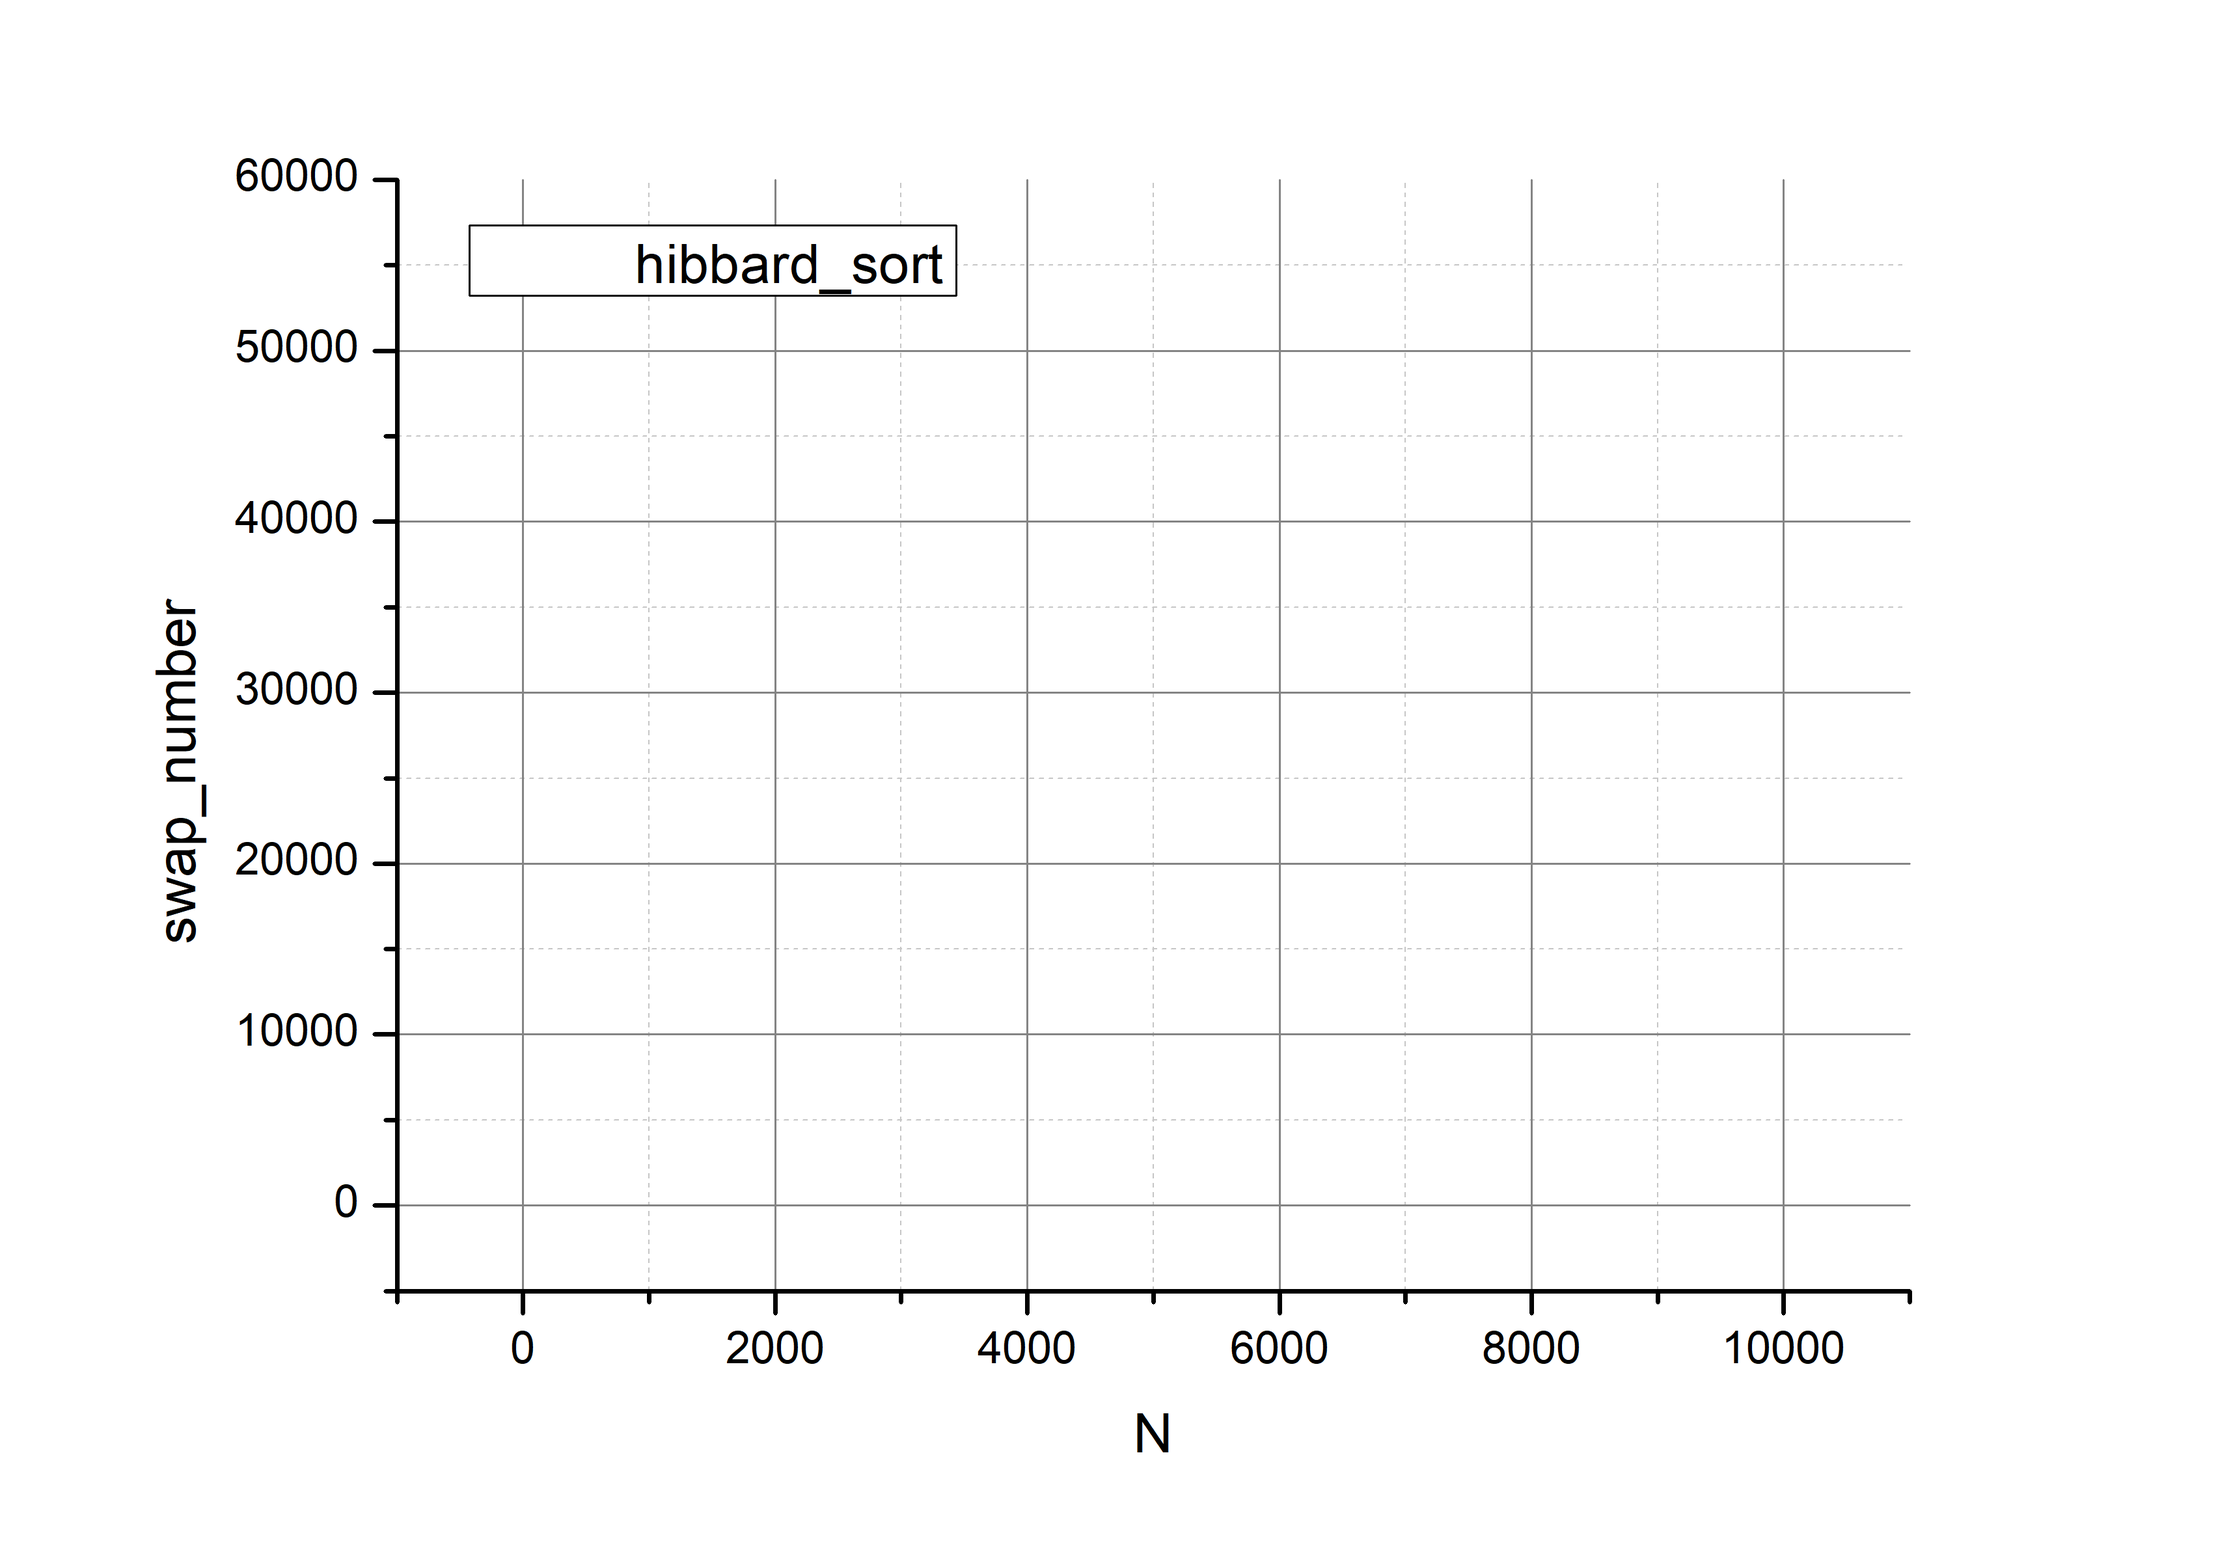
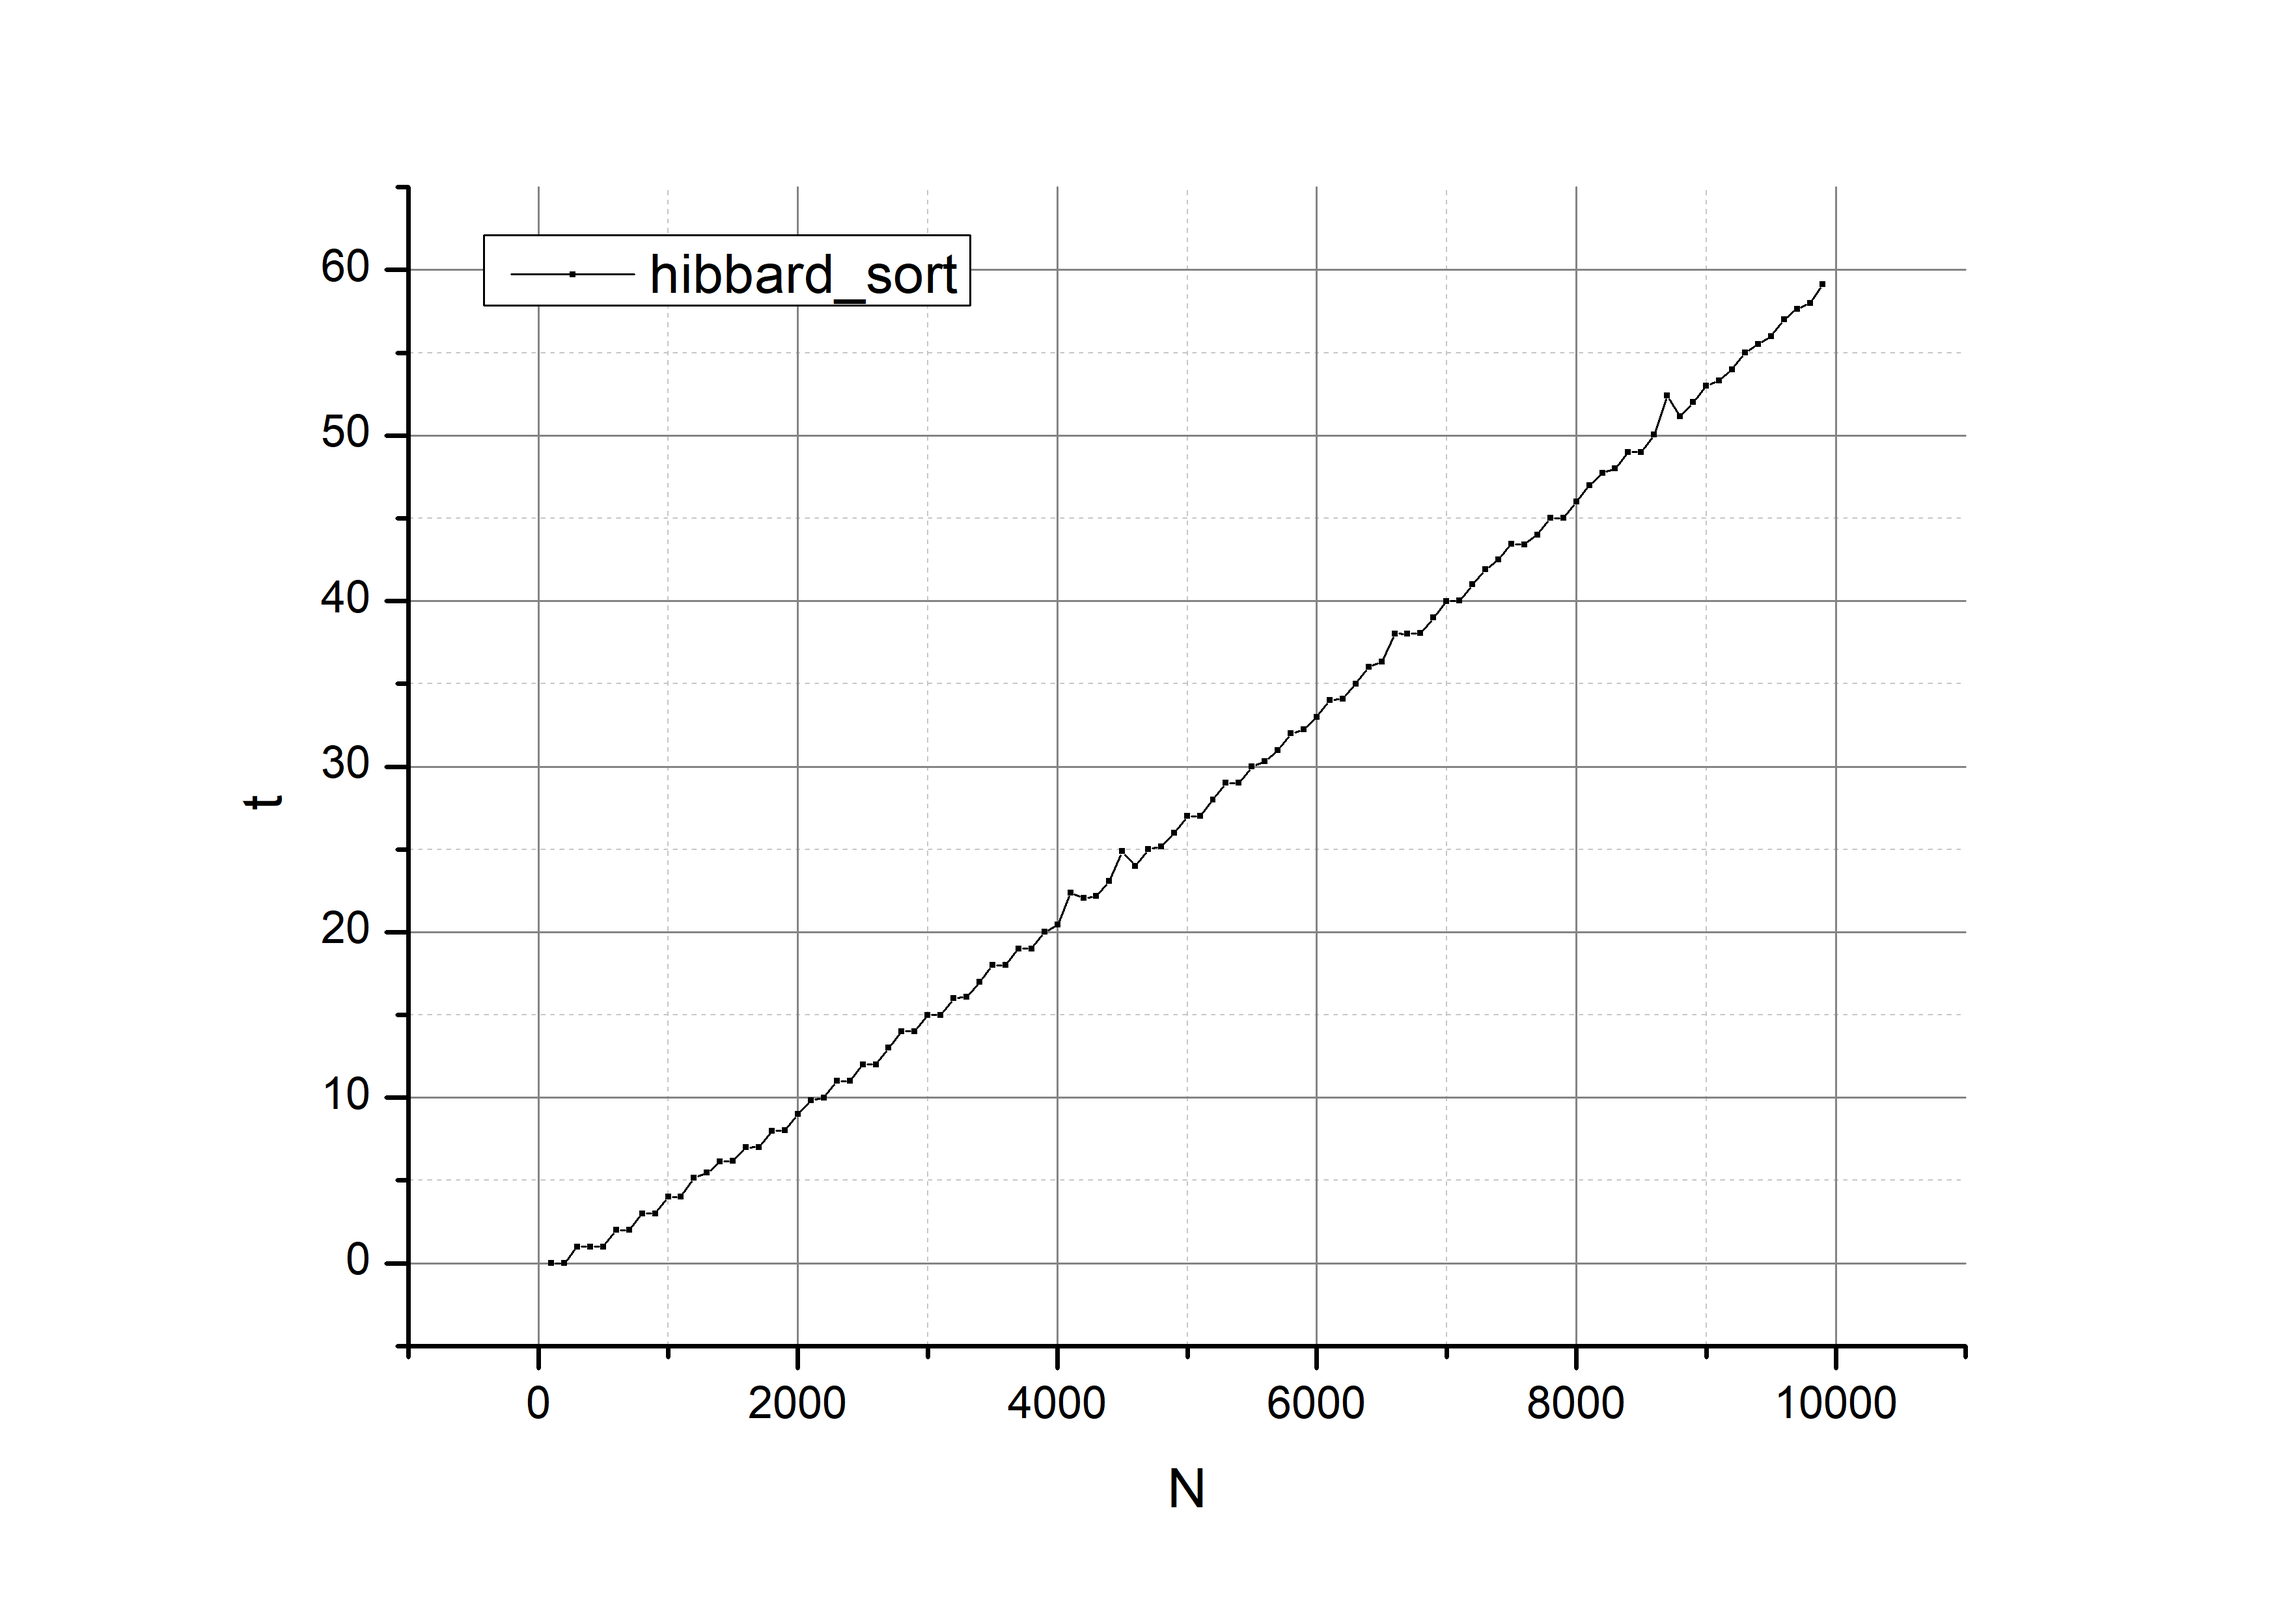
Hibbard sort changed

diff --git a/sort_lab/Hibbard_sort_graph.cpp b/sort_lab/Hibbard_sort_graph.cpp
@@ -29,7 +29,7 @@ int hibbard_coef(int (&b)[N], int k)
     i--;
     for (int j = 0; j < i + 1; j++)
     {
-        b[j] = pow(2, (float)i) - 1;
+        b[j] = pow(2, (float)j) - 1;
     }
     return i;
 }
@@ -49,15 +49,15 @@ int main()
 {
     int a[N];
     int coef[N];
+    std::default_random_engine rng(1001);
     for (int k = 100; k < N; k = k + 100)
     {
         swap_counter = 0;
         double av = 0;
         int ind_h = hibbard_coef(coef, k);
-        std::default_random_engine rng(1001);
+        std::uniform_int_distribution<int> dstr(0, k);
         for (int i = 0; i < 100; i++)
         {
-            std::uniform_int_distribution<int> dstr(0, k);
             for (int j = 0; j < k; j++)
             {
                 a[j] = dstr(rng);
